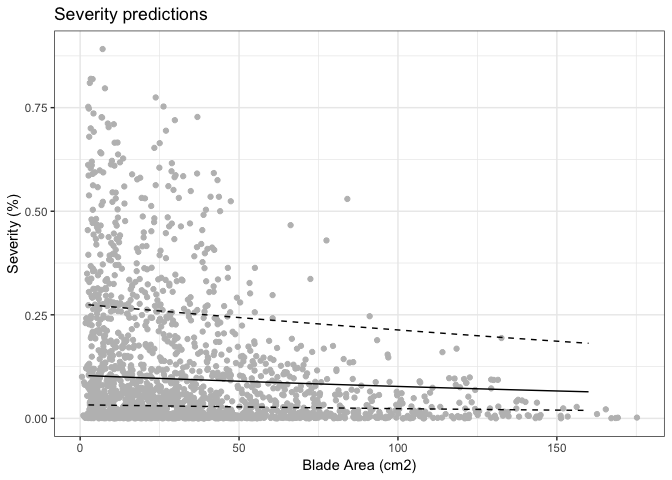
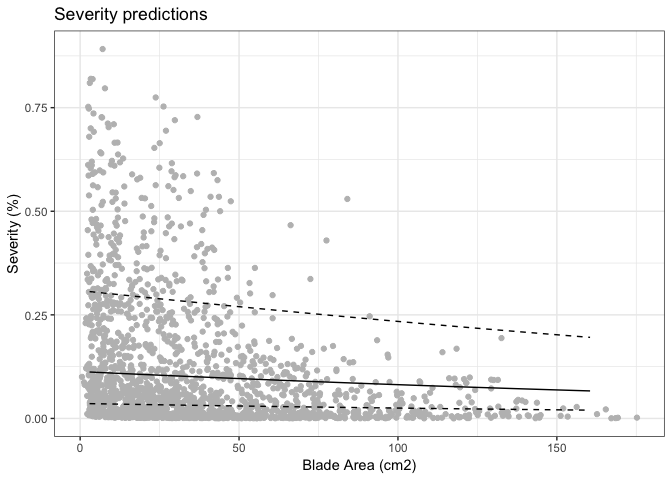
Updating disease data to include prevalence cutoff of 2 mm2

diff --git a/disease_model_I.md b/disease_model_I.md
@@ -29,21 +29,21 @@ selection and validation process, for simplicity in sharing results
     ## Data: bladeWD
     ## 
     ##      AIC      BIC   logLik deviance df.resid 
-    ##   4199.3   4230.4  -2094.6   4189.3     3697 
+    ##   4219.9   4251.0  -2105.0   4209.9     3697 
     ## 
     ## Random effects:
     ## 
     ## Conditional model:
     ##  Groups   Name        Variance Std.Dev.
-    ##  MeadowId (Intercept) 1.965    1.402   
+    ##  MeadowId (Intercept) 1.88     1.371   
     ## Number of obs: 3702, groups:  MeadowId, 32
     ## 
     ## Conditional model:
-    ##                Estimate Std. Error z value Pr(>|z|)    
-    ## (Intercept)     0.15978    0.25532   0.626 0.531443    
-    ## sBladeArea      0.22316    0.06630   3.366 0.000763 ***
-    ## sDensityShoots -0.04764    0.05912  -0.806 0.420370    
-    ## TidalHeightU    0.13448    0.08730   1.540 0.123444    
+    ##                 Estimate Std. Error z value Pr(>|z|)    
+    ## (Intercept)    -0.004324   0.249862  -0.017 0.986192    
+    ## sBladeArea      0.226840   0.066422   3.415 0.000638 ***
+    ## sDensityShoots -0.042782   0.060745  -0.704 0.481258    
+    ## TidalHeightU    0.150309   0.087006   1.728 0.084063 .  
     ## ---
     ## Signif. codes:  0 '***' 0.001 '**' 0.01 '*' 0.05 '.' 0.1 ' ' 1
 
@@ -71,32 +71,32 @@ between regions.
     ## Data: diseased
     ## 
     ##      AIC      BIC   logLik deviance df.resid 
-    ##  -6208.8  -6147.5   3115.4  -6230.8     1944 
+    ##  -5407.4  -5346.7   2714.7  -5429.4     1842 
     ## 
     ## Random effects:
     ## 
     ## Conditional model:
     ##  Groups   Name        Variance Std.Dev.
-    ##  MeadowId (Intercept) 0.4506   0.6712  
-    ## Number of obs: 1955, groups:  MeadowId, 32
+    ##  MeadowId (Intercept) 0.4598   0.6781  
+    ## Number of obs: 1853, groups:  MeadowId, 32
     ## 
     ## Conditional model:
     ##                Estimate Std. Error z value Pr(>|z|)    
-    ## (Intercept)    -2.43726    0.12669 -19.238   <2e-16 ***
-    ## sBladeArea     -0.10861    0.04297  -2.527   0.0115 *  
-    ## sDensityShoots  0.04999    0.04439   1.126   0.2601    
-    ## TidalHeightU    0.05865    0.04988   1.176   0.2397    
+    ## (Intercept)    -2.35808    0.12773 -18.462  < 2e-16 ***
+    ## sBladeArea     -0.12079    0.04347  -2.779  0.00546 ** 
+    ## sDensityShoots  0.04494    0.04656   0.965  0.33441    
+    ## TidalHeightU    0.04228    0.05032   0.840  0.40077    
     ## ---
     ## Signif. codes:  0 '***' 0.001 '**' 0.01 '*' 0.05 '.' 0.1 ' ' 1
     ## 
     ## Dispersion model:
     ##             Estimate Std. Error z value Pr(>|z|)    
-    ## (Intercept)   1.5946     0.0727  21.933  < 2e-16 ***
-    ## RegionBB      0.7807     0.1041   7.500 6.37e-14 ***
-    ## RegionBC     -0.4122     0.1284  -3.210  0.00133 ** 
-    ## RegionOR      1.0952     0.1921   5.700 1.20e-08 ***
-    ## RegionSD     -0.3572     0.1165  -3.066  0.00217 ** 
-    ## RegionWA      0.4363     0.1048   4.163 3.14e-05 ***
+    ## (Intercept)  1.69692    0.07317  23.191  < 2e-16 ***
+    ## RegionBB     0.73751    0.10462   7.050 1.80e-12 ***
+    ## RegionBC    -0.40095    0.12988  -3.087 0.002021 ** 
+    ## RegionOR     1.05997    0.19312   5.489 4.05e-08 ***
+    ## RegionSD    -0.28422    0.11816  -2.405 0.016156 *  
+    ## RegionWA     0.35213    0.10537   3.342 0.000832 ***
     ## ---
     ## Signif. codes:  0 '***' 0.001 '**' 0.01 '*' 0.05 '.' 0.1 ' ' 1
 
